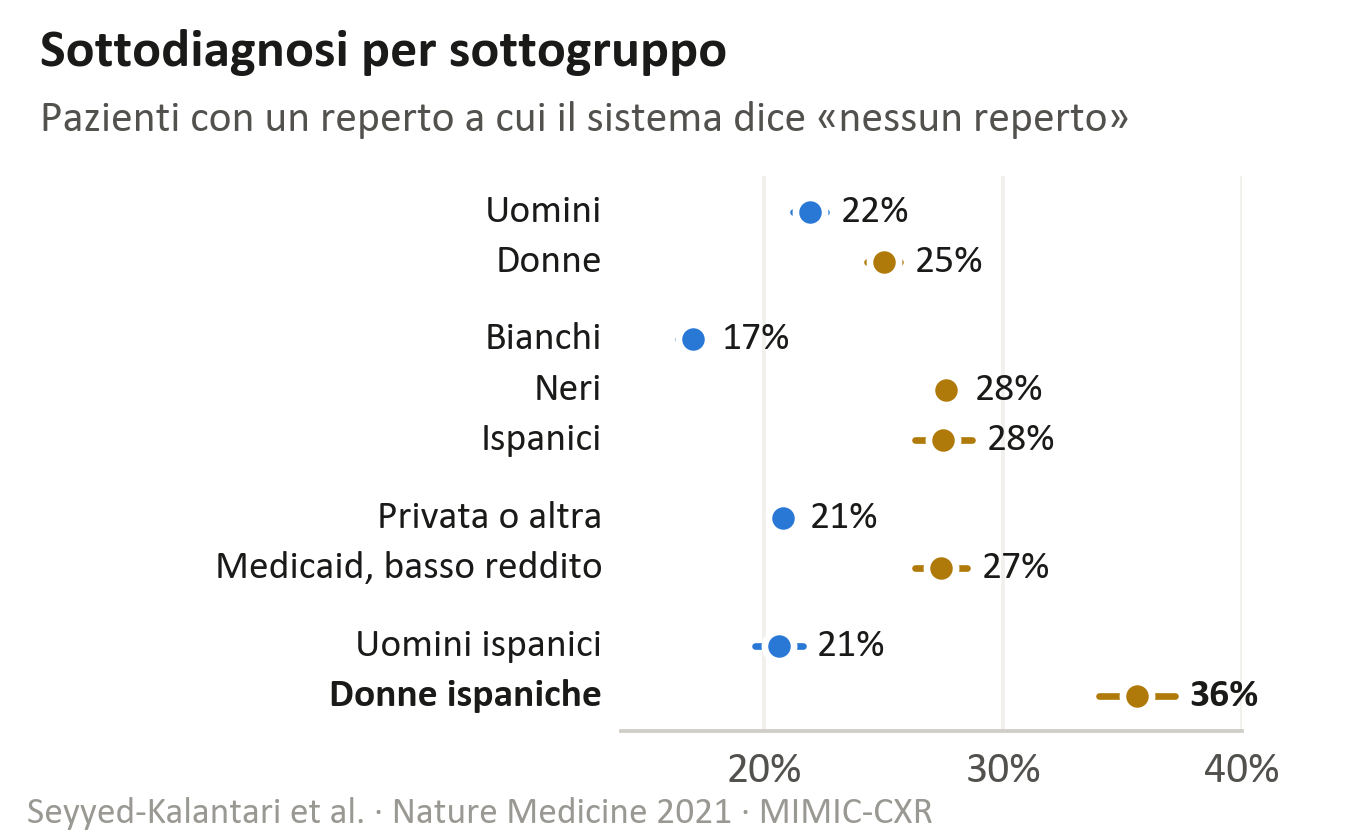
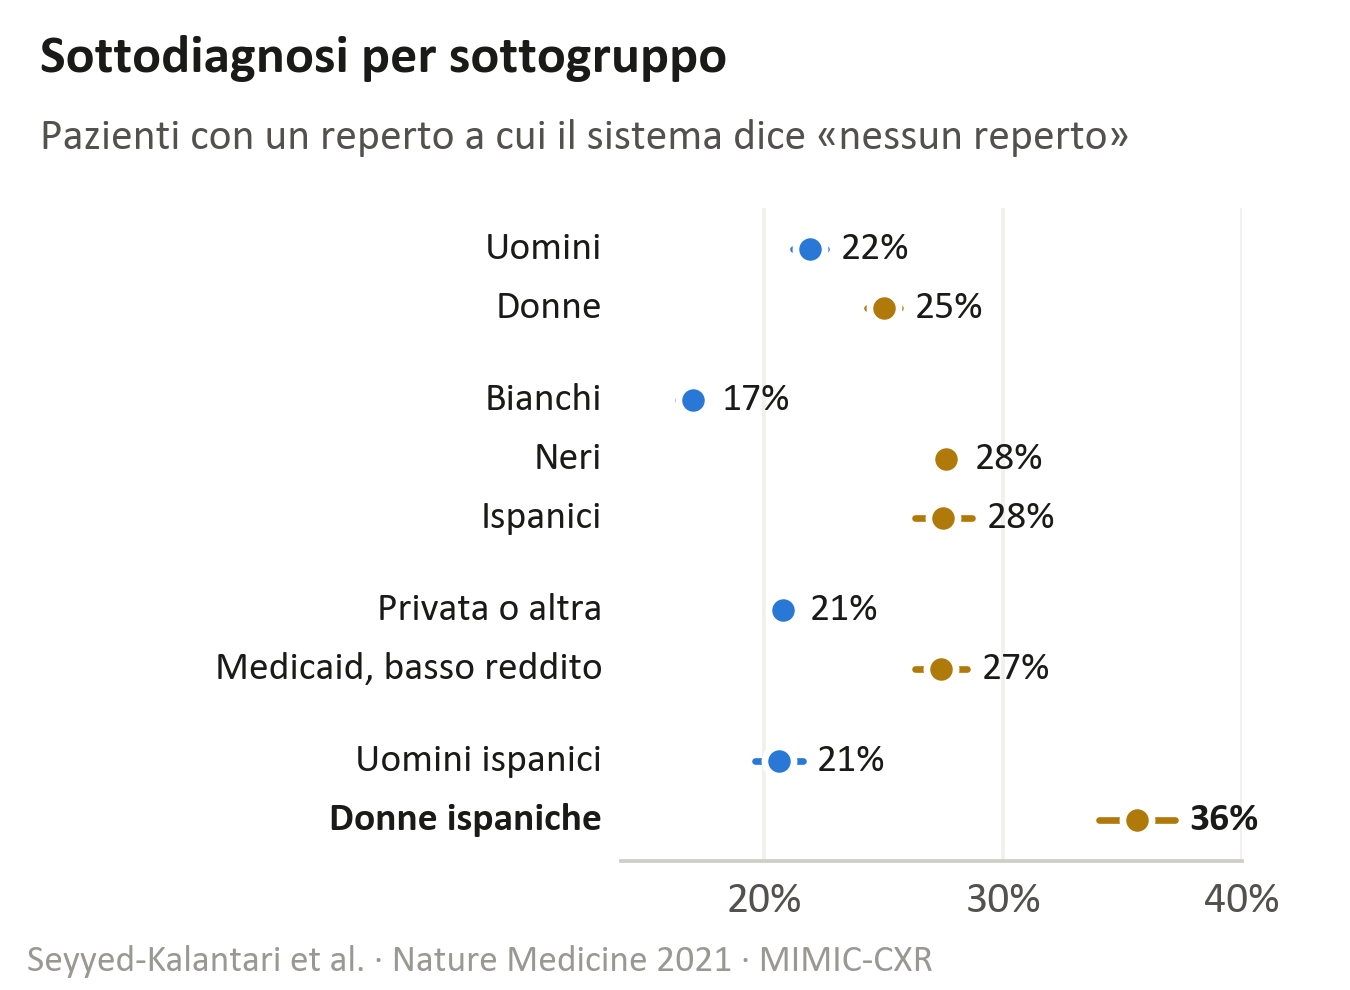
Cinque figure alte 3,3 pollici come le altre slide
Tolti i riquadri delle domande dalle slide dei casi e della governance, le
figure S22, S25, S27, S30 e S31 occupano lo spazio liberato. In S25 le
miniature delle radiografie tengono le proporzioni di prima.

diff --git a/figure/genera_immagini_slide.py b/figure/genera_immagini_slide.py
@@ -410,7 +410,7 @@ SK = [  # Seyyed-Kalantari et al. 2021, MIMIC-CXR: FPR della classe 'No Finding'
 
 
 def s22():
-    fig = plt.figure(figsize=(4.5, 2.8))
+    fig = plt.figure(figsize=(4.5, 3.3))
     titolo_fig(fig, "Sottodiagnosi per sottogruppo", "Pazienti con un reperto a cui il sistema dice «nessun reperto»",
                y=0.965)
     ax = fig.add_axes([0.46, 0.13, 0.46, 0.66])
@@ -538,13 +538,13 @@ def s25():
     px4 = base.resize((4, 4), Image.BOX).resize((512, 512), Image.NEAREST)
     pannelli = [(base, "Originale", "oltre 0,95"), (rum, "Con rumore", "0,74–0,80"),
                 (sfo, "Sfocata", "0,64–0,72"), (px4, "4 × 4 pixel", "sopra il caso")]
-    fig = plt.figure(figsize=(4.5, 2.8))
+    fig = plt.figure(figsize=(4.5, 3.3))
     titolo_fig(fig, "Il modello riconosce l'etnia anche così", "AUROC dei modelli sulle immagini degradate", y=0.965)
     for k, (im, t, v) in enumerate(pannelli):
-        ax = fig.add_axes([0.03 + k * 0.245, 0.24, 0.21, 0.46])
+        ax = fig.add_axes([0.03 + k * 0.245, 0.285, 0.21, 0.39])
         ax.imshow(im, cmap="gray", aspect="auto", vmin=0, vmax=255); cornice(ax, INK2, lw=0.8)
-        fig.text(0.03 + k * 0.245 + 0.105, 0.75, t, ha="center", fontsize=9.8, fontweight="bold", color=INK)
-        fig.text(0.03 + k * 0.245 + 0.105, 0.15, v, ha="center", fontsize=10.5, color=INK,
+        fig.text(0.03 + k * 0.245 + 0.105, 0.715, t, ha="center", fontsize=9.8, fontweight="bold", color=INK)
+        fig.text(0.03 + k * 0.245 + 0.105, 0.20, v, ha="center", fontsize=10.5, color=INK,
                  fontweight="bold")
     nota(fig, "Gichoya et al., preprint arXiv 2107.10356 · radiografia: M. Häggström, CC0", lato="sinistra")
     salva(fig, "S25_degradazione")
@@ -559,7 +559,7 @@ def s27():
     obiettivo = 0.5
     ta = t[np.argmax(vpp(0.20) >= obiettivo)]; tb = t[np.argmax(vpp(0.05) >= obiettivo)]
     sa, sb = 1 - norm.cdf(ta - mu), 1 - norm.cdf(tb - mu)
-    fig = plt.figure(figsize=(4.5, 2.8))
+    fig = plt.figure(figsize=(4.5, 3.3))
     titolo_fig(fig, "Una soglia per ogni popolazione",
                "Obiettivo: almeno un positivo su due davvero malato", y=0.965)
     ax = fig.add_axes([0.11, 0.2, 0.84, 0.52])
@@ -598,7 +598,7 @@ ARIES = [  # Oberije et al., BMJ Health Care Inform 2025, tabella 3: tumori trov
 
 
 def s30():
-    fig = plt.figure(figsize=(4.5, 2.8))
+    fig = plt.figure(figsize=(4.5, 3.3))
     titolo_fig(fig, "Tumori trovati ogni 1.000 donne", None, y=0.965)
     ax = fig.add_axes([0.37, 0.12, 0.58, 0.66])
     y, ys, prec = 0, [], None
@@ -629,7 +629,7 @@ def s31(seed=8):
     a = 0.86 + rng.normal(0, 0.012, 24)
     b = np.where(mesi <= 12, 0.85, 0.85 - 0.03 * np.minimum(mesi - 12, 6)) + rng.normal(0, 0.014, 24)
     tutti = 0.85 * a + 0.15 * b
-    fig = plt.figure(figsize=(4.5, 2.8))
+    fig = plt.figure(figsize=(4.5, 3.3))
     titolo_fig(fig, "Il sistema era equo. Poi", "Sensibilità mese per mese: la media non vede il gruppo B", y=0.965)
     ax = fig.add_axes([0.12, 0.17, 0.68, 0.56])
     ax.axhline(0.75, color=INK2, lw=1.1, ls=(0, (4, 3)))
